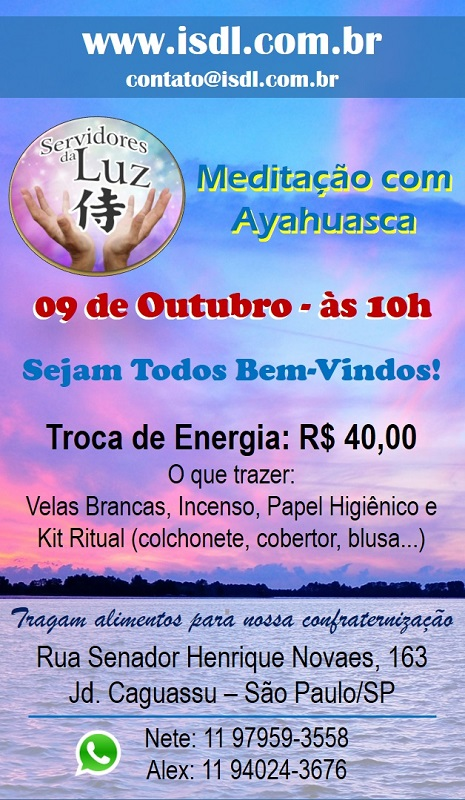
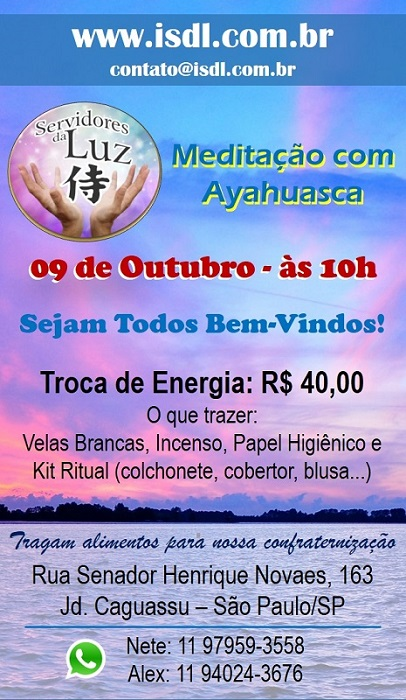
ritual

diff --git a/index.html b/index.html
@@ -105,13 +105,7 @@
                     <hr class="small">
                     <div>
                         <div class="ritual" data="10092016">
-                            <img class="img-ritual" alt="Ritual com Ayahuasca em São Paulo 9 Outubro de 2016" title="Ritual com Ayahuasca em São Paulo 9 Outubro de 2016" src="img/rituais/isdl-20161009.jpg">
-                        </div>
-                        <p>&nbsp;</p>
-                    </div>
-                    <div>
-                        <div class="ritual" data="10092016">
-                            <img class="img-ritual" src="img/rituais/isdl-20161009-xs.jpg">
+                            <img class="img-ritual" alt="Ritual com Ayahuasca em São Paulo 9 Outubro de 2016" title="Ritual com Ayahuasca em São Paulo 9 Outubro de 2016" src="img/rituais/isdl-20161009-xs.jpg">
                         </div>
                         <p>&nbsp;</p>
                     </div>
